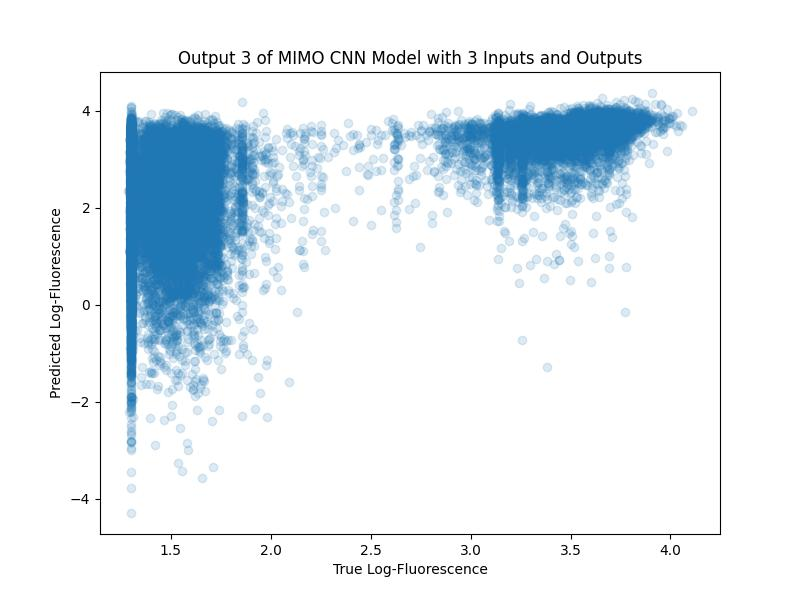
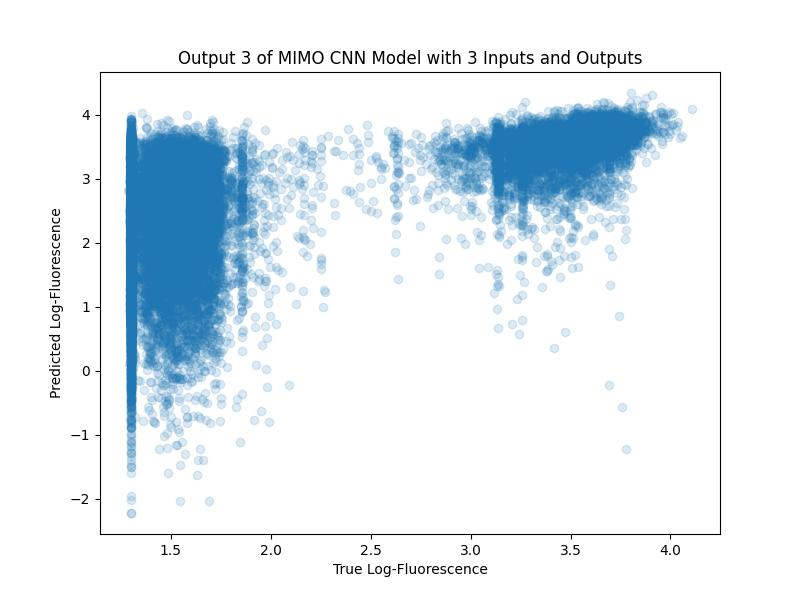
randomizing data shuffling for individual ensemble models

diff --git a/ProtMIMO/train_stability.py b/ProtMIMO/train_stability.py
@@ -380,21 +380,22 @@ def train_stability_ensemble_models(
     num_epochs=100,
     patience=10,
 ):
-    ensemble_training_data = create_batched_train_data(
-        train_df=train_df, num_inputs=1, bs=bs, feature_name="stability"
-    )
-    ensemble_val_data = create_batched_train_data(
-        train_df=val_df, num_inputs=1, bs=bs, feature_name="stability"
-    )
-    ensemble_test_data = create_batched_test_data(
-        test_df=test_df, num_inputs=1, bs=bs, feature_name="stability"
-    )
-    data = {
-        "training_data": ensemble_training_data,
-        "val_data": ensemble_val_data,
-        "test_data": ensemble_test_data,
-    }
-
+    data = []
+    for i in range(num_inputs):
+        ensemble_training_data = create_batched_train_data(
+            train_df=train_df, num_inputs=1, bs=bs, feature_name="stability", ensemble_model_num=i
+        )
+        ensemble_val_data = create_batched_train_data(
+            train_df=val_df, num_inputs=1, bs=bs, feature_name="stability", ensemble_model_num=i
+        )
+        ensemble_test_data = create_batched_test_data(
+            test_df=test_df, num_inputs=1, bs=bs, feature_name="stability"
+        )
+        data.append({
+            "training_data": ensemble_training_data,
+            "val_data": ensemble_val_data,
+            "test_data": ensemble_test_data,
+        })
     models = [
         (
             ProtMIMOOracle(
@@ -445,7 +446,7 @@ if __name__ == "__main__":
         num_inputs=3,
         bs=32,
         lr=0.001,
-        num_epochs=1,
+        num_epochs=100,
         patience=10,
     )
     train_stability_ensemble_models(
@@ -455,6 +456,6 @@ if __name__ == "__main__":
         num_inputs=3,
         bs=32,
         lr=0.001,
-        num_epochs=1,
+        num_epochs=100,
         patience=10,
     )

diff --git a/ProtMIMO/train_fluorescence.py b/ProtMIMO/train_fluorescence.py
@@ -248,20 +248,22 @@ def train_gfp_ensemble_models(
     num_epochs=100,
     patience=10,
 ):
-    ensemble_training_data = create_batched_train_data(
-        train_df=train_df, num_inputs=1, bs=bs, feature_name="log_fluorescence"
-    )
-    ensemble_val_data = create_batched_train_data(
-        train_df=val_df, num_inputs=1, bs=bs, feature_name="log_fluorescence"
-    )
-    ensemble_test_data = create_batched_test_data(
-        test_df=test_df, num_inputs=1, bs=bs, feature_name="log_fluorescence"
-    )
-    data = {
-        "training_data": ensemble_training_data,
-        "val_data": ensemble_val_data,
-        "test_data": ensemble_test_data,
-    }
+    data = []
+    for i in range(num_inputs):
+        ensemble_training_data = create_batched_train_data(
+            train_df=train_df, num_inputs=1, bs=bs, feature_name="log_fluorescence", ensemble_model_num=i
+        )
+        ensemble_val_data = create_batched_train_data(
+            train_df=val_df, num_inputs=1, bs=bs, feature_name="log_fluorescence", ensemble_model_num=i
+        )
+        ensemble_test_data = create_batched_test_data(
+            test_df=test_df, num_inputs=1, bs=bs, feature_name="log_fluorescence"
+        )
+        data.append({
+            "training_data": ensemble_training_data,
+            "val_data": ensemble_val_data,
+            "test_data": ensemble_test_data,
+        })
 
     models = [
         (
@@ -313,7 +315,7 @@ if __name__ == "__main__":
         num_inputs=3,
         bs=32,
         lr=0.001,
-        num_epochs=1,
+        num_epochs=10,
         patience=10,
     )
     train_gfp_ensemble_models(
@@ -323,6 +325,6 @@ if __name__ == "__main__":
         num_inputs=3,
         bs=32,
         lr=0.001,
-        num_epochs=1,
+        num_epochs=10,
         patience=10,
     )

diff --git a/ProtMIMO/data_utils.py b/ProtMIMO/data_utils.py
@@ -19,9 +19,10 @@ class DatasetType(enum.Enum):
     Test = "test"
 
 
-def create_batched_train_data(train_df, num_inputs, bs, feature_name):
+def create_batched_train_data(train_df, num_inputs, bs, feature_name, ensemble_model_num=None):
     N = len(train_df)
-    random_states = [42 + i for i in range(num_inputs)]
+    random_states = [42 + i for i in range(num_inputs)] if num_inputs > 1 else [42 + ensemble_model_num]
+        
     shuffled_dfs = [
         train_df.sample(frac=1, random_state=random_states[i])
         for i in range(num_inputs)
@@ -246,7 +247,7 @@ def train_and_evaluate_ensemble(
     for i, model in enumerate(models):
         best_model = train_and_evaluate(
             model=model,
-            data=data,
+            data=data[i],
             metrics_fn=None,
             lr=lr,
             num_epochs=num_epochs,
@@ -262,7 +263,7 @@ def train_and_evaluate_ensemble(
         test_metrics = ensemble_evaluate(
             models=best_models,
             loss_fn=nn.MSELoss(),
-            test_data=data["test_data"],
+            test_data=data[0]["test_data"],
             metrics_fn=metrics_fn,
         )
         return best_models, test_metrics
